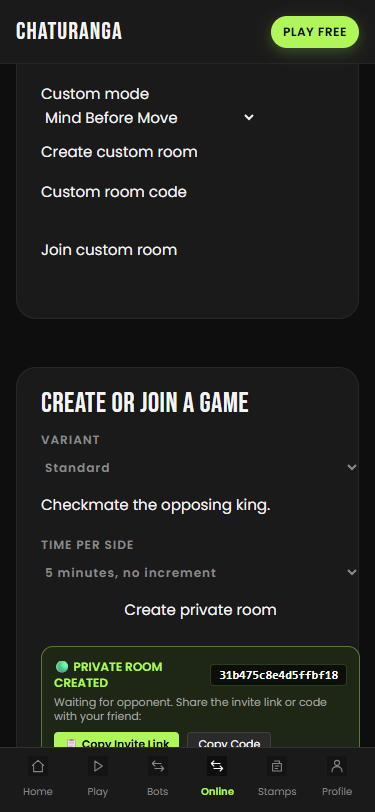
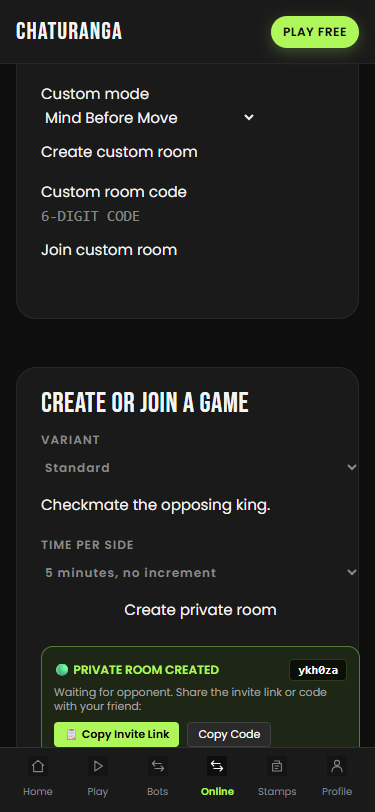
feat: 6-digit alphanumeric room codes for custom and private rooms

Changed region(s): [[0.1467, 0.8005, 0.9093, 0.9236], [0.1173, 0.2463, 0.264, 0.2771], [0.2933, 0.2463, 0.3813, 0.2771]]

diff --git a/src/online/CustomRoomPanel.tsx b/src/online/CustomRoomPanel.tsx
@@ -20,9 +20,9 @@ export default function CustomRoomPanel({rooms,run}:{rooms:CustomView[];run:(f:(
  };
  return <section className="online-card custom-panel"><div className="section-kicker">CUSTOM & MULTI-PLAYER COMPETE</div><h2>Four Corners, Maths & Special Modes</h2><p className="text-xs text-[#8A8A8A] mb-4">Private, server-checked rooms. Custom modes are unrated. Three/four-player uses our documented king-capture house rules, not FIDE or Chess.com rules.</p>
  <div className="online-actions"><label>Custom mode<select aria-label="Custom mode" value={kind} onChange={e=>setKind(e.target.value as CustomKind)}>{Object.entries(names).map(([k,n])=><option key={k} value={k}>{n}</option>)}</select></label><button onClick={()=>void run(async()=>{const r=await api<{room:string}>('custom-create',{kind,minutes:5});setSelected(r.room);})}>Create custom room</button></div>
- <div className="online-actions"><label>Custom room code<input value={code} autoCapitalize="none" autoCorrect="off" spellCheck={false} onChange={e=>setCode(e.target.value.trim().toLowerCase())} onKeyDown={e=>{if(e.key==='Enter'&&code){e.preventDefault();void run(async()=>{await api('custom-join',{room:code});setSelected(code);});}}}/></label><button onClick={()=>void run(async()=>{await api('custom-join',{room:code});setSelected(code);})}>Join custom room</button></div>
+ <div className="online-actions"><label>Custom room code<input value={code} maxLength={6} autoCapitalize="characters" autoCorrect="off" spellCheck={false} placeholder="6-digit code" className="uppercase font-mono" onChange={e=>setCode(e.target.value.trim().toLowerCase())} onKeyDown={e=>{if(e.key==='Enter'&&code){e.preventDefault();void run(async()=>{await api('custom-join',{room:code});setSelected(code);});}}}/></label><button onClick={()=>void run(async()=>{await api('custom-join',{room:code});setSelected(code);})}>Join custom room</button></div>
  <div className="custom-room-list">{rooms.map(r=><button key={r.id} aria-pressed={selected===r.id} onClick={()=>{setSelected(r.id);setFrom(null);}}>{names[r.kind]} · {r.players.length}/{r.capacity} · {r.status}</button>)}</div>
- {room&&<div className="custom-game"><h3>{names[room.kind]}</h3><p>Custom code: <code>{room.id}</code> <button type="button" className="online-copy" onClick={()=>{navigator.clipboard?.writeText(room.id);setCopied(true);setTimeout(()=>setCopied(false),2000);}}>{copied?'Copied':'Copy code'}</button></p><p>You are {room.yourSeat}. {room.result??(room.status==='waiting'?`Waiting for ${room.capacity-room.players.length} players`: `${room.turn} to act`)}.</p><div className="seat-roster">{room.players.map(p=><span key={p.id}>{p.seat}: {p.name}</span>)}</div>
+ {room&&<div className="custom-game"><h3>{names[room.kind]}</h3><p>Custom code: <code className="uppercase font-mono font-bold text-[#AFF65B] bg-black/60 px-2 py-0.5 rounded border border-[#AFF65B]/20 text-sm tracking-widest">{room.id}</code> <button type="button" className="online-copy" onClick={()=>{navigator.clipboard?.writeText(room.id);setCopied(true);setTimeout(()=>setCopied(false),2000);}}>{copied?'Copied':'Copy code'}</button></p><p>You are {room.yourSeat}. {room.result??(room.status==='waiting'?`Waiting for ${room.capacity-room.players.length} players`: `${room.turn} to act`)}.</p><div className="seat-roster">{room.players.map(p=><span key={p.id}>{p.seat}: {p.name}</span>)}</div>
  {room.cross&&<><div className="cross-board" role="group" aria-label="Cross-board">{Array.from({length:196},(_,i)=>{const r=Math.floor(i/14),c=i%14,p=room.cross!.board[i];return validCell(r,c)?<button key={i} aria-label={`${crossSquare(i)}, ${p?`${p.seat} ${p.kind}`:'empty'}`} className={`cross-cell ${(r+c)%2?'dark':'light'} ${p?.seat??''} ${from===i?'chosen':''} ${legal.includes(i)?'destination':''}`} onClick={()=>play(i)}>{p?glyph[p.kind]:legal.includes(i)?'·':''}</button>:<span key={i} className="cross-corner"/>;})}</div><div className="seat-roster">{room.cross.seats.map(s=><span key={s}>{s} {Math.ceil(room.cross!.clocks[s]/1000)}s {room.cross!.eliminated.includes(s)?'(out)':''}</span>)}</div><details><summary>Cross-board house rules</summary><p>South → West → North → East; three-player omits North. Capture a king to remove that army. No check rule, castling or en passant. Pawns move inward, may start with two squares, capture diagonally and become queens at the far central edge. Eliminated players are skipped. No legal moves or timeout eliminates a player. Last army wins. Resigning removes your army.</p></details></>}
  {math&&<><div className="seat-roster"><span>White {Math.ceil(math.clocks.w/1000)}s</span><span>Black {Math.ceil(math.clocks.b/1000)}s</span><span>Phase: {math.phase}</span></div><div className="math-online-board" role="group" aria-label="Maths chess board">{Array.from({length:64},(_,i)=>{const sq=(String.fromCharCode(97+i%8)+(8-Math.floor(i/8))) as Square,p=chess!.get(sq);return <button key={sq} className={`cross-cell ${(Math.floor(i/8)+i%8)%2?'dark':'light'} ${p?.color==='w'?'south':'north'} ${from===sq?'chosen':''}`} aria-label={`${sq}, ${p?`${p.color} ${p.type}`:'empty'}`} onClick={()=>play(sq)}>{p?glyph[p.type]:''}</button>;})}</div>
  {math.question?<form onSubmit={e=>{e.preventDefault();command({type:'answer',token:math.question!.id,answer});}}><label>Maths question: {math.question.text}<input inputMode="numeric" value={answer} onChange={e=>setAnswer(e.target.value)} autoComplete="off"/></label><button type="submit">Submit answer</button></form>:<p>{math.canAct?'Select a piece, then its destination.':'Waiting for the other player. Questions and answers are private.'}</p>}

diff --git a/server/custom.ts b/server/custom.ts
@@ -5,10 +5,23 @@ import {crossGame,crossPlay,crossTick,crossEliminate,type CrossState,SEATS} from
 import type {CustomKind,CustomView} from '../src/online/customTypes';
 import {Store} from './store';
 interface Room {id:string;kind:CustomKind;members:string[];capacity:number;minutes:number;version:number;status:CustomView['status'];math?:State;cross?:CrossState;result:string|null;draw:string[];createdAt?:number;finishedAt?:number;questionTokens?:Record<string,{internal:number;token:number}>}
+function generateCustomCode(store: Store): string {
+  const chars = "0123456789abcdefghijklmnopqrstuvwxyz";
+  let code = "";
+  do {
+    const bytes = randomBytes(6);
+    code = "";
+    for (let i = 0; i < 6; i++) {
+      code += chars[bytes[i] % chars.length];
+    }
+  } while (store.get("custom", code));
+  return code;
+}
+
 export class CustomService {
  constructor(public store:Store,private now=()=>Date.now(),private allowed:(a:string,b?:string)=>void,private name:(id:string)=>string){}
  room(code:string) {const r=this.store.get<Room>('custom',code);if(!r)throw Error('Room not found.');return r;}
- create(id:string,kind:CustomKind,minutes:number) {this.allowed(id);if(!['mind','mantra','cross3','cross4'].includes(kind)||![3,5,10,15].includes(minutes))throw Error('Invalid custom settings.');const userRooms=this.store.all<Room>('custom').filter(r=>r.members.includes(id)&&r.status!=='finished');if(userRooms.length>=5){const waiting=userRooms.filter(r=>r.status==='waiting'&&r.members[0]===id);if(waiting.length>0){for(const w of waiting.slice(0,Math.max(1,userRooms.length-4))){w.status='finished';w.result='Room cancelled';w.finishedAt=this.now();w.version++;this.store.put('custom',w.id,w);}}else throw Error('Finish an existing custom room.');}const r:Room={id:randomBytes(9).toString('hex'),kind,members:[id],capacity:kind==='cross3'?3:kind==='cross4'?4:2,minutes,version:0,status:'waiting',result:null,draw:[],createdAt:this.now()};this.store.put('custom',r.id,r);return r.id;}
+ create(id:string,kind:CustomKind,minutes:number) {this.allowed(id);if(!['mind','mantra','cross3','cross4'].includes(kind)||![3,5,10,15].includes(minutes))throw Error('Invalid custom settings.');const userRooms=this.store.all<Room>('custom').filter(r=>r.members.includes(id)&&r.status!=='finished');if(userRooms.length>=5){const waiting=userRooms.filter(r=>r.status==='waiting'&&r.members[0]===id);if(waiting.length>0){for(const w of waiting.slice(0,Math.max(1,userRooms.length-4))){w.status='finished';w.result='Room cancelled';w.finishedAt=this.now();w.version++;this.store.put('custom',w.id,w);}}else throw Error('Finish an existing custom room.');}const r:Room={id:generateCustomCode(this.store),kind,members:[id],capacity:kind==='cross3'?3:kind==='cross4'?4:2,minutes,version:0,status:'waiting',result:null,draw:[],createdAt:this.now()};this.store.put('custom',r.id,r);return r.id;}
  join(id:string,code:string) {const r=this.room(code);this.allowed(id);if(r.members.includes(id))return;if(r.status!=='waiting'||r.members.length>=r.capacity)throw Error('Room unavailable.');for(const p of r.members)this.allowed(id,p);r.members.push(id);r.version++;if(r.members.length===r.capacity){r.status='active';if(r.kind.startsWith('cross'))r.cross=crossGame(r.capacity as 3|4,r.minutes*60000,this.now());else r.math=newGame({mode:r.kind as 'mind'|'mantra',difficulty:'medium',initialMs:r.minutes*60000,incrementMs:0,untimed:false,seed:randomBytes(4).readUInt32LE()},this.now());}this.save(r);}
  save(r:Room){this.store.put('custom',r.id,r);}
  settle(r:Room){if(r.status!=='active')return;if(r.cross){r.cross=crossTick(r.cross,this.now());r.result=r.cross.result;}if(r.math){r.math=tick(r.math,this.now());if(r.math.phase==='handoff') { // Online turn-based duels: auto-ready, no device handoff.

diff --git a/server/service.ts b/server/service.ts
@@ -75,6 +75,19 @@ const clean = (v: unknown, max: number) => {
     throw Error("Invalid text field.");
   return v.trim();
 };
+function generateRoomCode(store: Store): string {
+  const chars = "0123456789abcdefghijklmnopqrstuvwxyz";
+  let code = "";
+  do {
+    const bytes = randomBytes(6);
+    code = "";
+    for (let i = 0; i < 6; i++) {
+      code += chars[bytes[i] % chars.length];
+    }
+  } while (store.get("room", code));
+  return code;
+}
+
 export class Service {
   /** Last contact with each player (API call or live socket), epoch ms.
    * In-memory only: a restart simply starts the grace window fresh. */
@@ -340,7 +353,7 @@ export class Service {
       }
     }
     const r: Room = {
-      id: randomBytes(9).toString("hex"),
+      id: generateRoomCode(this.store),
       rule,
       white: id,
       black: null,

diff --git a/src/online/OnlinePage.tsx b/src/online/OnlinePage.tsx
@@ -1121,9 +1121,12 @@ export default function OnlinePage({
                     Room code
                     <input
                       value={code}
-                      autoCapitalize="none"
+                      maxLength={18}
+                      autoCapitalize="characters"
                       autoCorrect="off"
                       spellCheck={false}
+                      placeholder="e.g. 8ITRU8"
+                      className="uppercase font-mono"
                       onChange={(e) =>
                         setCode(e.target.value.trim().toLowerCase())
                       }
